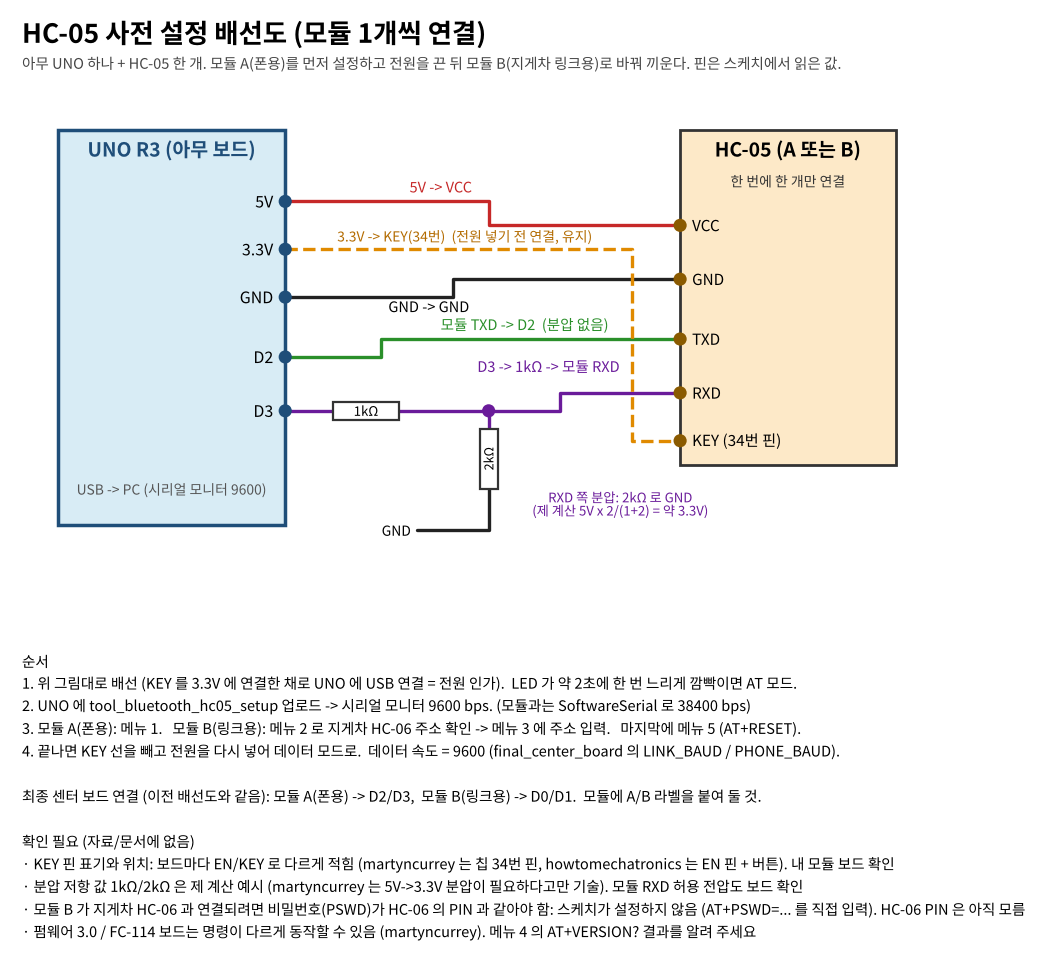
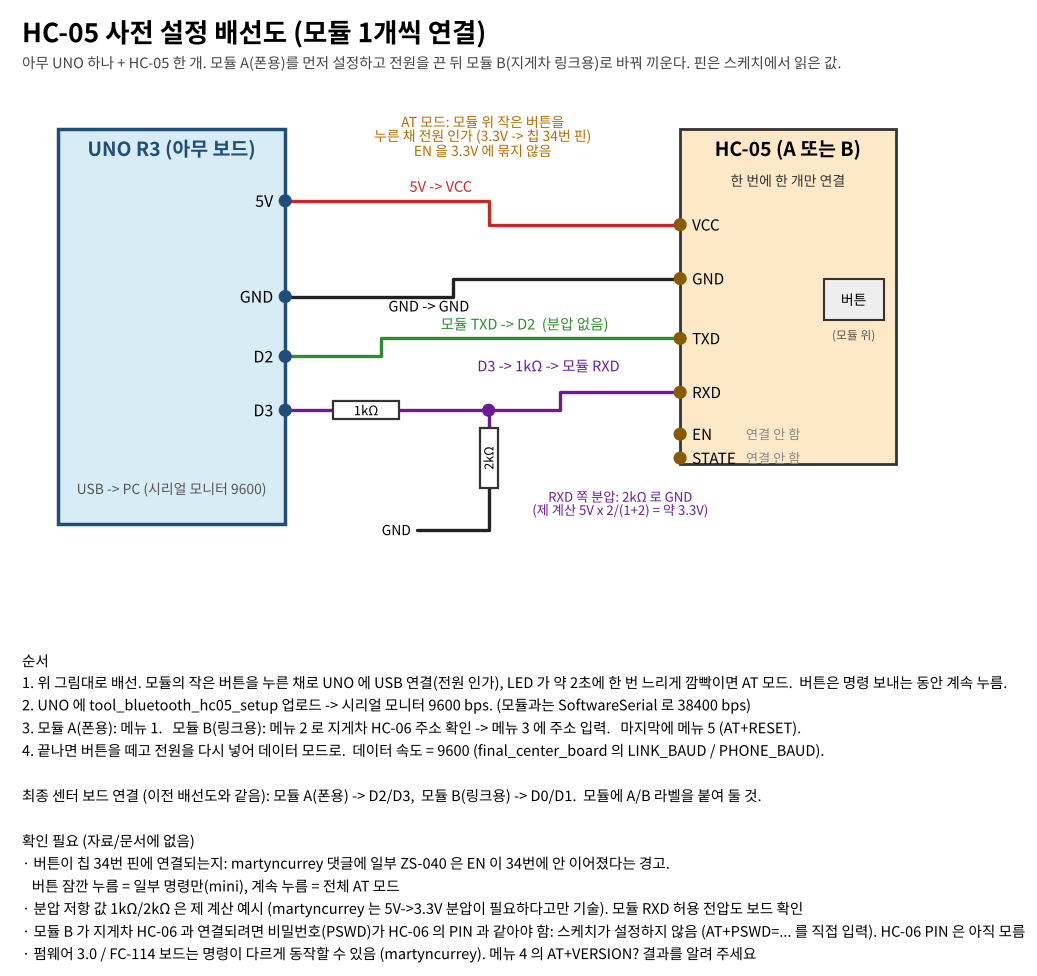
HC-05 setup: adapt to EN/STATE boards without KEY pin
- AT mode via on-board button held at power-up (not KEY->3.3V); EN/STATE left unconnected
- sketch prints a button hint when setup/scan fails (mini vs full AT mode)
- wiring diagram, header comments, PROBLEM_1PAGER updated; PC test covers the hint

Claude-Session: https://claude.ai/code/session_012AXa44xNt9zkYWasn3hvMx

diff --git a/test_pc/tool_hc05_setup/test_hc05_setup.cpp b/test_pc/tool_hc05_setup/test_hc05_setup.cpp
@@ -11,7 +11,7 @@ unsigned long millis() { return ++fakeNow; }
 bool waitReply(unsigned long); void drainModule(unsigned long); bool sendAt(const char*, unsigned long);
 bool sendAtFmt(const char*, const char*); bool sendUartCmd(); bool pollUsbLine(); bool readLineWait(unsigned long);
 bool normalizeAddress(const char*, char*, size_t); bool setupPhoneModule(); bool scanForForklift(); bool bindToForklift(const char*);
-void askAddressAndBind(); void showSettings(); void printMenu(); void handleLine(const char*); void setup(); void loop();
+void runPhoneSetup(); void printFailHint(); void askAddressAndBind(); void showSettings(); void printMenu(); void handleLine(const char*); void setup(); void loop();
 #include SRC_MAIN
 static int fails = 0;
 static void expect(const char *name, bool ok) { printf("%s  %s\n", ok ? "PASS" : "FAIL", name); if (!ok) fails++; }
@@ -28,6 +28,7 @@ int main() {
   reset(); btModule.failOn = "AT+ROLE=0"; typeLine("1");
   expect("1: stops at the first failing command and reports FAILED",
          sent({"AT", "AT+ROLE=0"}) && Serial.out.find("Module A setup FAILED") != std::string::npos);
+  expect("failure prints the button hint", Serial.out.find("keep the on-board button pressed") != std::string::npos);
   reset(); typeLine("2");
   expect("2: scan = AT, RMAAD, ROLE=1, INIT, INQ and the +INQ line is shown",
          sent({"AT", "AT+RMAAD", "AT+ROLE=1", "AT+INIT", "AT+INQ"}) && Serial.out.find("+INQ:98D3:34:905D3F") != std::string::npos);

diff --git a/PROBLEM_1PAGER.md b/PROBLEM_1PAGER.md
@@ -194,7 +194,7 @@
 - **이름 규칙 (2026-11-25 변경)**: `final_*` = 보드/폰에 올리는 최종 코드, `test_*` = 시험 전용(최종 프로그램 아님), `tool_*` = 일회성 도구. 이전 이름 -> 현재 이름: forklift_main -> final_forklift_board (탭 fk_* -> forklift_*), master_center -> final_center_board (탭 master_hw/master_logic -> center_hw/center_logic), android_app -> final_phone_app_android, forklift_test -> test_forklift_board_hardware (이후 기능별 8개 스케치로 분리, 아래 참조), bt_at_setup -> tool_bluetooth_at_setup, tests -> test_pc (forklift_logic / center_logic / app_vs_center). Arduino IDE 규칙상 스케치 폴더 이름과 메인 .ino 이름은 같게 맞춤. 이 문서 아래의 옛 이름은 모두 현재 이름으로 바꿔 두었다.
 - test_forklift_board_hardware/ (2026-11-25 분리): 이전에는 한 스케치(3탭, 시리얼 메뉴 1~9)였으나 기능별 독립 스케치 8개로 나눔 (사용자 요청: 적외선/초음파/리프트/바퀴/부저). 각 스케치 = 폴더 1개 = .ino 1개(2026-11-25 사용자 요청 "하나의 ino로 만들어"에 따라 처음 2탭이던 것을 합침; 위쪽 핀/상수/하드웨어 함수는 Serial 없음, `SERIAL TEST SECTION` 배너 아래에 시리얼 메뉴와 setup/loop). 이 해석(스케치마다 파일 1개, 8개 전체를 하나로 합치지는 않음)은 제 가정이며 사용자 확인 전. 요청한 5개: `test_forklift_buzzer`, `test_forklift_ultrasonic`, `test_forklift_infrared`, `test_forklift_wheels`, `test_forklift_lift`. 기존 시험이 사라지지 않게 같이 분리한 3개(사용자가 목록에 넣지 않음, 제 판단): `test_forklift_photo`(광원 A0/A1), `test_forklift_line`(라인 A2~A4 원시값 + 직선 보정 값), `test_forklift_bluetooth`. 핀 번호, 상수 값, 출력 문구는 원본과 같음(PC 비교 확인). 메뉴 번호는 스케치마다 다시 매김. 스텁 헤더로 문법/구조 검사만 함(`test_pc/hw_test_sketches/check_test_sketches.py`), Arduino IDE 컴파일과 보드 시험은 아직 안 함.
 - tool_bluetooth_at_setup/ (1탭): HC-05/HC-06 AT 설정용 통과 브리지. 문법 검사만 함.
-- tool_bluetooth_hc05_setup/ (1파일, 2026-11-26): 센터 보드 HC-05 2개 사전 설정 메뉴(1 폰용 슬레이브 / 2 링크용 주변 검색 / 3 링크용 주소 고정 / 4 설정 보기 / 5 AT+RESET, 'AT' 로 시작하는 줄은 그대로 전송). 명령은 직접 읽은 자료(martyncurrey ?p=1348, howtomechatronics, core-electronics)의 것만 사용. 데이터 속도는 final_center_board 의 9600 으로 맞춤. 배선 그림: tool_bluetooth_hc05_setup/wiring_hc05_setup.png. 시험: 가짜 HC-05 로 PC 에서 18개 동작 확인(test_pc/tool_hc05_setup/), 실제 모듈/펌웨어/AVR 컴파일은 아직 안 함. **미확인**: 모듈 펌웨어 버전별 명령 차이(martyncurrey: 3.0 펌웨어와 FC-114 는 다름), KEY 핀 위치, 분압 저항 값(1k/2k 는 제 계산 예시), AT+INQ 소요 시간, 지게차 HC-06 의 PIN(모듈 B 의 PSWD 와 같아야 함, 스케치는 설정하지 않음). 센터 보드 배선 그림: final_center_board/wiring_center_board.png (LED 저항 값, LED 극성, 모듈 전원/RXD 전압은 미확인).
+- tool_bluetooth_hc05_setup/ (1파일, 2026-11-26): 센터 보드 HC-05 2개 사전 설정 메뉴(1 폰용 슬레이브 / 2 링크용 주변 검색 / 3 링크용 주소 고정 / 4 설정 보기 / 5 AT+RESET, 'AT' 로 시작하는 줄은 그대로 전송). 명령은 직접 읽은 자료(martyncurrey ?p=1348, howtomechatronics, core-electronics)의 것만 사용. 데이터 속도는 final_center_board 의 9600 으로 맞춤. 배선 그림: tool_bluetooth_hc05_setup/wiring_hc05_setup.png. 시험: 가짜 HC-05 로 PC 에서 18개 동작 확인(test_pc/tool_hc05_setup/), 실제 모듈/펌웨어/AVR 컴파일은 아직 안 함. **미확인**: 모듈 펌웨어 버전별 명령 차이(martyncurrey: 3.0 펌웨어와 FC-114 는 다름), 사용자 보드(EN/STATE, KEY 없음)의 버튼이 칩 34번 핀에 연결되는지 (AT 모드는 버튼을 누른 채 전원 인가로 설계, 실제 동작 미확인), 분압 저항 값(1k/2k 는 제 계산 예시), AT+INQ 소요 시간, 지게차 HC-06 의 PIN(모듈 B 의 PSWD 와 같아야 함, 스케치는 설정하지 않음). 센터 보드 배선 그림: final_center_board/wiring_center_board.png (LED 저항 값, LED 극성, 모듈 전원/RXD 전압은 미확인).
 - final_center_board/ (3탭, 66/76/109줄): 센터 보드 코드. 점유 기록(상차 6칸 짐 있음/하차 6칸 비어 있음), 폰 명령('1'~'6', 'A'~'F', 'S'), 지게차 보고 처리, 구간 LED(한 번에 1개), 비상('X' 송신 + 다음 LED 고정 점등), 폰 송신 큐(지게차 링크 수신이 비어 있을 때만 송신).
   - PC 시험: 실제 파일을 스텁 입출력과 함께 g++로 컴파일하고 시나리오 30개를 실행, 전부 통과 (정상 작업, 점유 거부, 시작 무시, 작업 중 선택 거부, 비상 LED/복귀, 싣기 전 비상은 점유 기록 불변, 싣은 뒤 비상은 상차만 반영, 최근 LED 기억, 수신 대기 중 송신 보류).
   - 미시험: Arduino IDE 컴파일, 실제 블루투스 통신, SoftwareSerial의 문구 출력(print) 동작, LED 배선 극성(LED_ON_LEVEL=HIGH는 임시).
